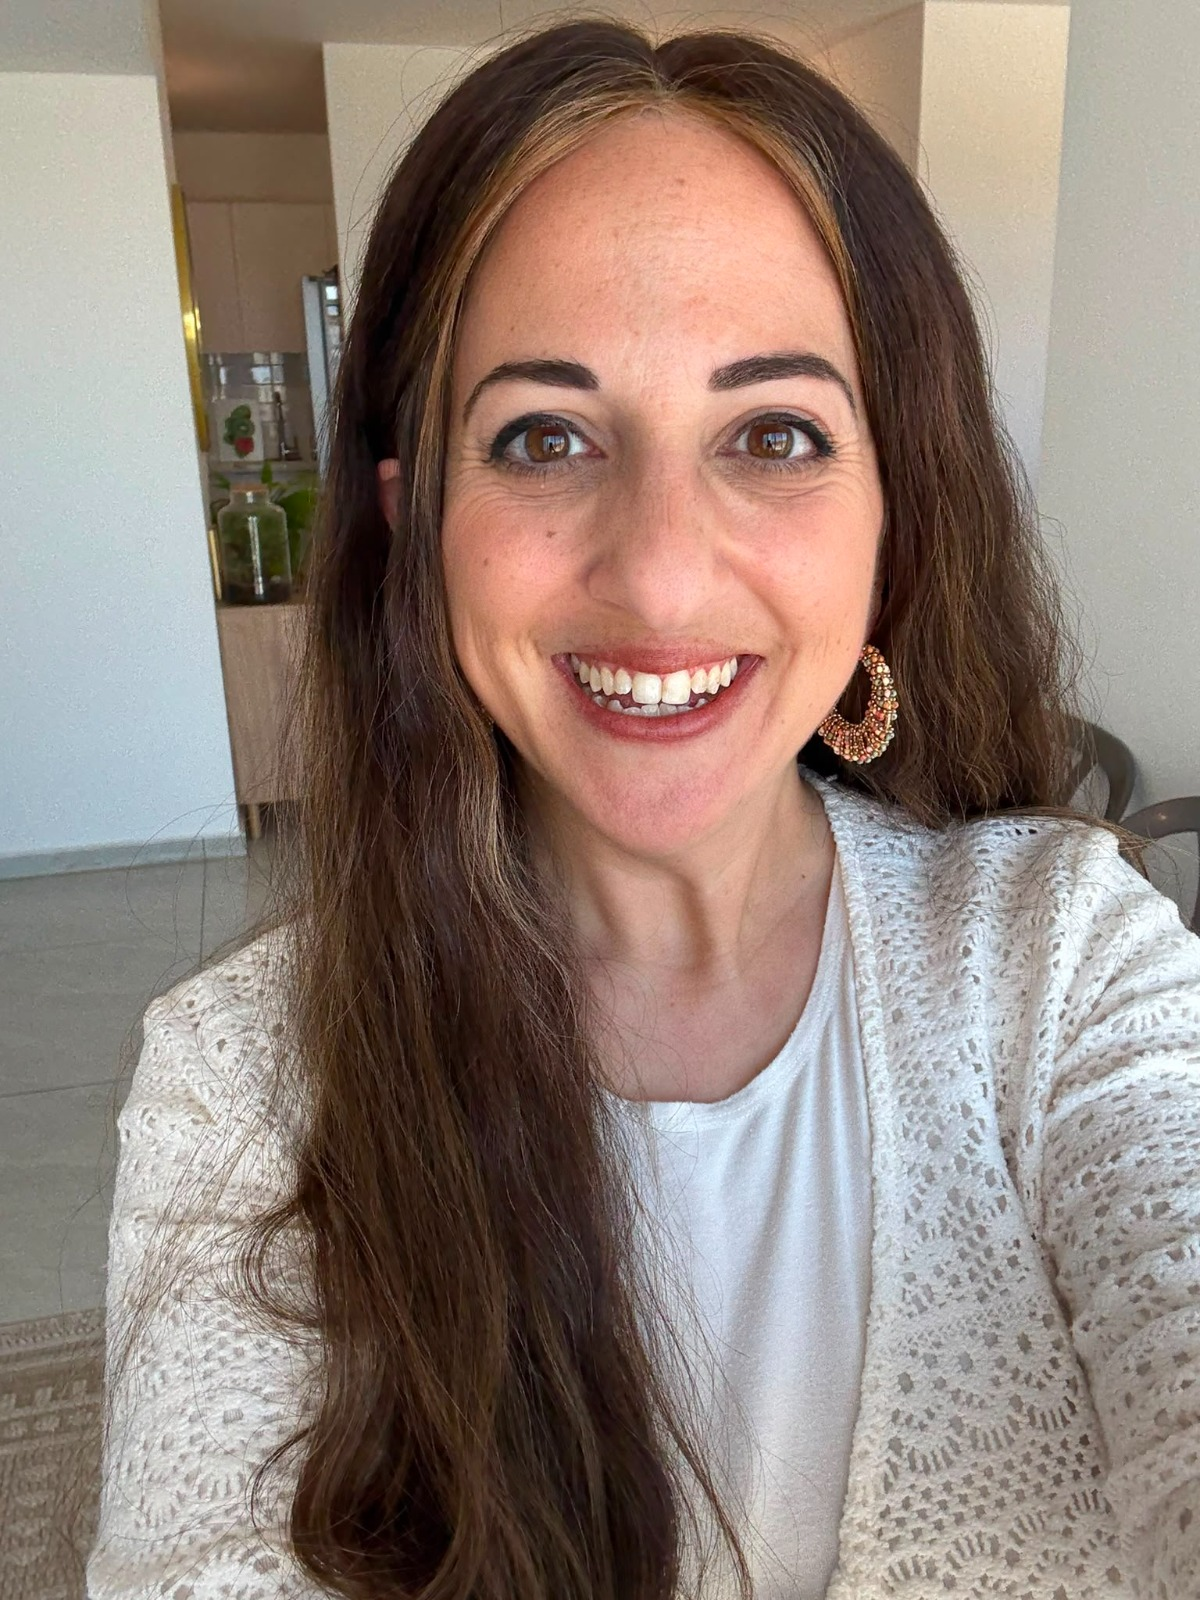
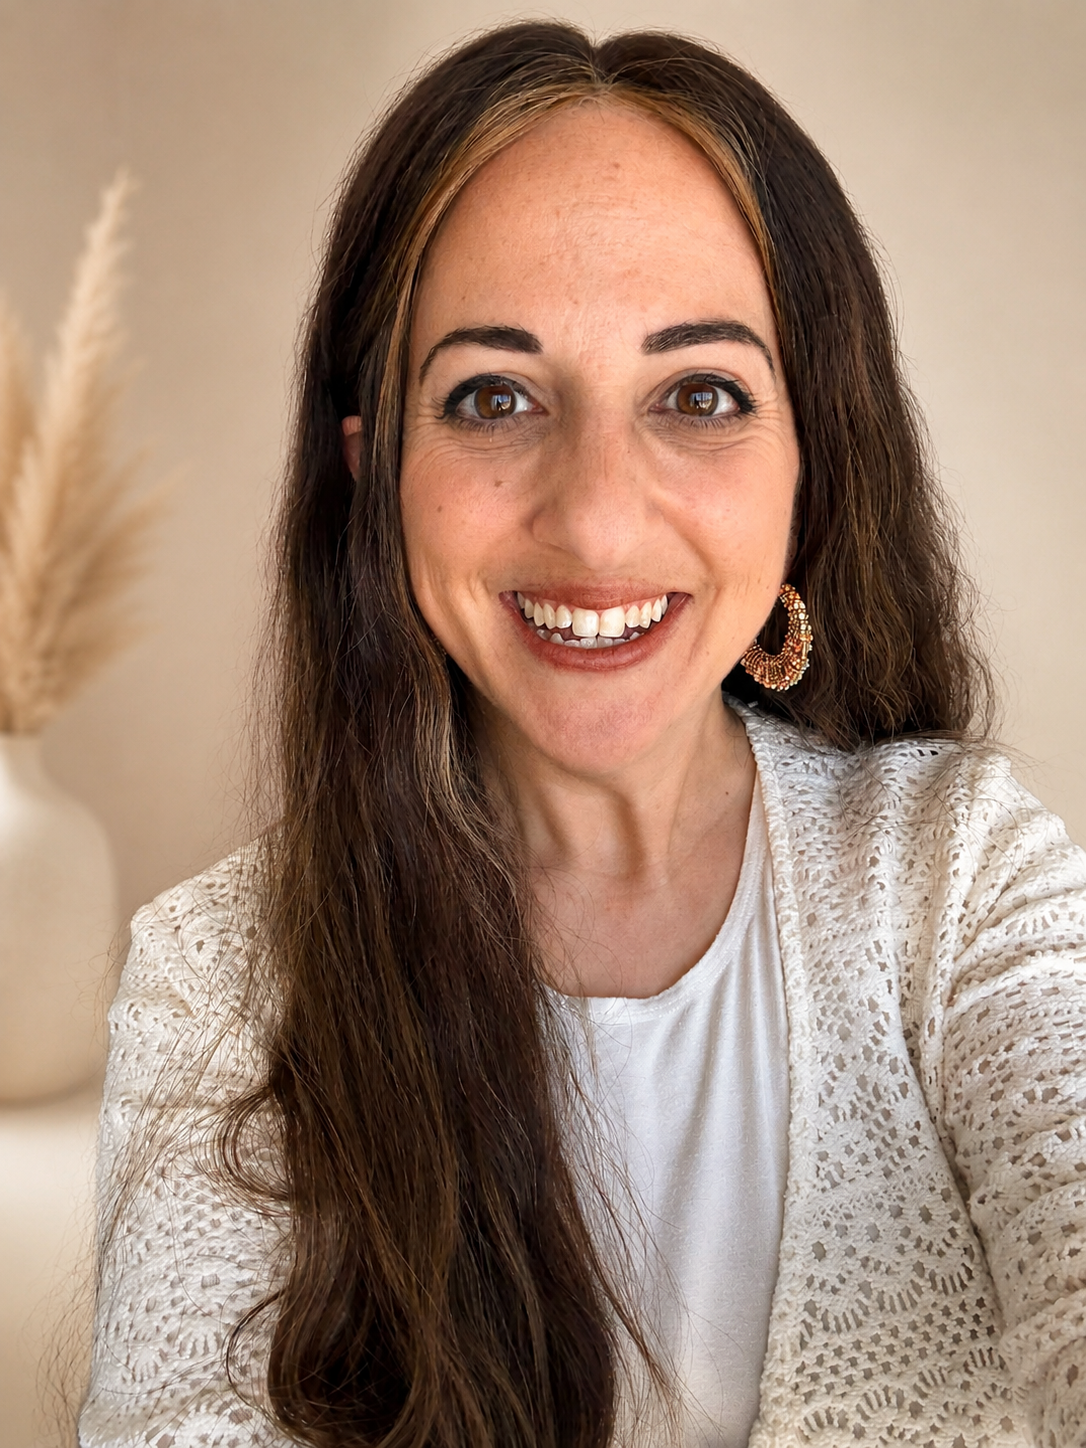
Apply Sarah's feedback round: new photo/infographic, WhatsApp links, copy updates, intro video, testimonial fixes, new 'what happens' section

diff --git a/index.html b/index.html
@@ -134,11 +134,12 @@ p{margin:0 0 14px;}
 .hero-photo-frame img{width:100%;height:100%;object-fit:cover;}
 .quote-float{
   position:relative;margin-top:-56px;margin-inline:16px 0;z-index:3;
-  background:#fff;border-radius:var(--radius);padding:22px 24px;box-shadow:var(--shadow-md);
-  max-width:320px;border:1px solid var(--line);
+  background:#fff;border-radius:var(--radius);padding:18px 20px 16px;box-shadow:var(--shadow-md);
+  max-width:270px;border:1px solid var(--line);
 }
-.quote-float p{font-size:15.5px;color:var(--ink-soft);margin:0 0 10px;font-style:normal;}
-.quote-float footer{font-family:'Heebo',sans-serif;font-weight:700;font-size:13px;color:var(--coral-deep);}
+.quote-float .quote-mark{font-family:Georgia,serif;font-size:44px;line-height:1;color:var(--peach);font-weight:700;margin-bottom:-6px;}
+.quote-float p{font-size:14.5px;color:var(--ink-soft);margin:0 0 8px;font-style:normal;}
+.quote-float footer{font-family:'Heebo',sans-serif;font-weight:700;font-size:12.5px;color:var(--coral-deep);}
 @media (max-width:900px){.hero-photo-frame{margin-inline:auto;}.quote-float{margin-inline:auto;}}
 
 /* PAIN chips */
@@ -247,6 +248,8 @@ p{margin:0 0 14px;}
 .struct-block .ico{flex:none;width:44px;height:44px;border-radius:14px;background:var(--teal-tint);color:var(--teal);display:flex;align-items:center;justify-content:center;}
 .struct-block h4{font-family:'Heebo',sans-serif;font-weight:800;font-size:16.5px;margin:0 0 6px;}
 .struct-block p{margin:0;font-size:15.5px;color:var(--ink-soft);}
+.struct-block.featured{background:var(--coral-tint);border-color:rgba(230,62,112,.25);border-inline-start:4px solid var(--coral);box-shadow:var(--shadow-md);}
+.struct-block.featured .ico{background:#fff;color:var(--coral-deep);}
 
 /* support features */
 .support-grid{display:grid;grid-template-columns:repeat(3,1fr);gap:18px;margin-top:30px;}
@@ -261,9 +264,13 @@ p{margin:0 0 14px;}
 .scroll-row{display:flex;gap:18px;overflow-x:auto;scroll-snap-type:x mandatory;padding:6px 4px 18px;scroll-behavior:smooth;}
 .scroll-row::-webkit-scrollbar{height:6px;}
 .scroll-row::-webkit-scrollbar-thumb{background:var(--line);border-radius:10px;}
-.video-frame{position:relative;border-radius:var(--radius);overflow:hidden;box-shadow:var(--shadow-sm);border:1px solid var(--line);background:#000;padding-top:56.25%;flex:0 0 300px;scroll-snap-align:start;}
+.video-frame{position:relative;border-radius:var(--radius);overflow:hidden;box-shadow:var(--shadow-sm);border:1px solid var(--line);background:#000;padding-top:56.25%;}
 .video-frame iframe{position:absolute;inset:0;width:100%;height:100%;border:0;}
-@media (max-width:560px){.video-frame{flex:0 0 82vw;}}
+.scroll-row > .video-frame{flex:0 0 300px;scroll-snap-align:start;}
+.video-testi{flex:0 0 300px;scroll-snap-align:start;}
+.video-testi-name{margin:10px 0 0;text-align:center;font-size:13.5px;color:var(--ink-soft);}
+.video-testi-name b{color:var(--coral-deep);}
+@media (max-width:560px){.scroll-row > .video-frame,.video-testi{flex:0 0 82vw;}}
 /* vertical testimonial marquee columns */
 .testi-columns{display:flex;justify-content:center;gap:20px;margin-top:16px;max-height:640px;overflow:hidden;-webkit-mask-image:linear-gradient(to bottom,transparent,#000 12%,#000 88%,transparent);mask-image:linear-gradient(to bottom,transparent,#000 12%,#000 88%,transparent);}
 .testi-col{flex:1 1 0;max-width:230px;overflow:hidden;}
@@ -272,14 +279,10 @@ p{margin:0 0 14px;}
 @media (min-width:900px){.testi-col:nth-child(3){display:block;}}
 .testi-track{display:flex;flex-direction:column;gap:16px;animation:testiScroll linear infinite;}
 .testi-col:hover .testi-track{animation-play-state:paused;}
-.testi-card{border-radius:16px;overflow:hidden;box-shadow:var(--shadow-sm);border:1px solid var(--line);aspect-ratio:1/1;flex:none;}
-.testi-card img{width:100%;height:100%;object-fit:cover;display:block;}
+.testi-card{border-radius:16px;overflow:hidden;box-shadow:var(--shadow-sm);border:1px solid var(--line);aspect-ratio:3/4;flex:none;background:#fff;}
+.testi-card img{width:100%;height:100%;object-fit:contain;display:block;}
 @keyframes testiScroll{from{transform:translateY(0);}to{transform:translateY(-50%);}}
 @media (prefers-reduced-motion:reduce){.testi-track{animation:none;}}
-
-.name-pills{display:flex;flex-wrap:wrap;gap:8px;margin-top:22px;}
-.name-pill{background:#fff;border:1px solid var(--line);border-radius:100px;padding:7px 16px;font-size:13.5px;box-shadow:var(--shadow-sm);}
-.name-pill b{color:var(--coral-deep);}
 
 /* bio */
 .bio-wrap{display:grid;grid-template-columns:.75fr 1.25fr;gap:clamp(24px,5vw,50px);align-items:start;margin-top:20px;}
@@ -324,7 +327,7 @@ footer .fine{font-size:13px;color:var(--ink-soft);margin-top:24px;}
 <nav class="nav">
   <div class="nav-inner">
     <a class="nav-logo" href="#top"><img src="assets/logo.png" alt="שרה שרבאני - מאמנת עסקית-רוחנית"></a>
-    <a class="btn btn-wa nav-cta" href="https://api.whatsapp.com/send?phone=+9720534301836&text=%D7%94%D7%99%D7%99%21%20%D7%90%D7%A0%D7%99%20%D7%A8%D7%95%D7%A6%D7%94%20%D7%A2%D7%95%D7%93%20%D7%A4%D7%A8%D7%98%D7%99%D7%9D%20%D7%A2%D7%9C%20%D7%AA%D7%9B%D7%A0%D7%99%D7%AA%20%D7%94%D7%9C%D7%99%D7%95%D7%95%D7%99%20Inside%20Out%20Business&lang=he" target="_blank" rel="noopener">
+    <a class="btn btn-wa nav-cta" href="https://wa.me/message/7DOKCXRTBY4UG1" target="_blank" rel="noopener">
       <svg width="18" height="18" viewBox="0 0 24 24" fill="currentColor"><path d="M12.04 2C6.58 2 2.13 6.45 2.13 11.91c0 1.7.44 3.35 1.29 4.81L2 22l5.44-1.36a9.9 9.9 0 0 0 4.6 1.17h.01c5.46 0 9.9-4.45 9.9-9.91C21.95 6.45 17.5 2 12.04 2Z" opacity=".15"/><path d="M17.47 14.38c-.28-.14-1.65-.81-1.9-.9-.26-.1-.44-.14-.63.14-.19.28-.72.9-.89 1.08-.16.19-.33.21-.61.07-.28-.14-1.18-.44-2.24-1.39-.83-.74-1.39-1.66-1.55-1.94-.16-.28-.02-.43.12-.57.13-.13.28-.33.42-.5.14-.16.19-.28.28-.47.09-.19.05-.35-.02-.5-.07-.14-.63-1.53-.87-2.09-.23-.55-.46-.48-.63-.48-.16-.01-.35-.01-.54-.01-.19 0-.5.07-.76.35-.26.28-1 1-1 2.42 0 1.43 1.03 2.82 1.18 3.01.14.19 2.03 3.1 4.92 4.35.69.3 1.22.48 1.64.61.69.22 1.31.19 1.81.11.55-.08 1.65-.67 1.89-1.33.23-.65.23-1.2.16-1.33-.07-.12-.26-.19-.54-.33Z"/></svg>
       <span class="long">כתבי לי בוואטסאפ</span>
     </a>
@@ -336,9 +339,9 @@ footer .fine{font-size:13px;color:var(--ink-soft);margin-top:24px;}
   <div class="hero-blob" aria-hidden="true"></div>
   <div class="hero-grid container">
     <div>
-      <span class="eyebrow">הכשרה חדשה · מחזור 1</span>
+      <span class="eyebrow">הכשרת מטפלות עסקיות · מחזור 1</span>
       <h1 class="h1"><span class="wave-text" id="hero-wave">נמאס לך לעבוד קשה<br><em>בשביל כלום כסף לשעה?</em></span></h1>
-      <p class="lead">הכשרת מטפלות עסקיות בשיטת Inside Out - השיטה שמחברת עבודה רגשית-תודעתית עמוקה לליווי עסקי מעשי, כדי שתדעי לא רק ללוות נשים לשינוי אמיתי - אלא גם לחיות ממנו בכבוד.</p>
+      <p class="lead">הכשרת מטפלות עסקיות בשיטת Inside Out - השיטה שמחברת עבודה רגשית-תודעתית עמוקה עם ליווי עסקי מעשי, כדי שתדעי לא רק ללוות נשים לשינוי אמיתי - אלא גם לחיות מהמקצוע בכבוד.</p>
       <div class="stat-bar">
         <div class="stat">
           <span class="ico"><svg width="18" height="18" viewBox="0 0 24 24" fill="none"><path d="M12 21s7-6.1 7-11.5A7 7 0 0 0 5 9.5C5 14.9 12 21 12 21Z" stroke="currentColor" stroke-width="1.8" stroke-linejoin="round"/><circle cx="12" cy="9.5" r="2.4" stroke="currentColor" stroke-width="1.8"/></svg></span>
@@ -354,7 +357,7 @@ footer .fine{font-size:13px;color:var(--ink-soft);margin-top:24px;}
         </div>
       </div>
       <div class="hero-actions">
-        <a class="btn btn-wa" href="https://api.whatsapp.com/send?phone=+9720534301836&text=%D7%94%D7%99%D7%99%21%20%D7%90%D7%A0%D7%99%20%D7%A8%D7%95%D7%A6%D7%94%20%D7%A2%D7%95%D7%93%20%D7%A4%D7%A8%D7%98%D7%99%D7%9D%20%D7%A2%D7%9C%20%D7%AA%D7%9B%D7%A0%D7%99%D7%AA%20%D7%94%D7%9C%D7%99%D7%95%D7%95%D7%99%20Inside%20Out%20Business&lang=he" target="_blank" rel="noopener">
+        <a class="btn btn-wa" href="https://wa.me/message/7DOKCXRTBY4UG1" target="_blank" rel="noopener">
           <svg width="18" height="18" viewBox="0 0 24 24" fill="currentColor"><path d="M17.47 14.38c-.28-.14-1.65-.81-1.9-.9-.26-.1-.44-.14-.63.14-.19.28-.72.9-.89 1.08-.16.19-.33.21-.61.07-.28-.14-1.18-.44-2.24-1.39-.83-.74-1.39-1.66-1.55-1.94-.16-.28-.02-.43.12-.57.13-.13.28-.33.42-.5.14-.16.19-.28.28-.47.09-.19.05-.35-.02-.5-.07-.14-.63-1.53-.87-2.09-.23-.55-.46-.48-.63-.48-.16-.01-.35-.01-.54-.01-.19 0-.5.07-.76.35-.26.28-1 1-1 2.42 0 1.43 1.03 2.82 1.18 3.01.14.19 2.03 3.1 4.92 4.35.69.3 1.22.48 1.64.61.69.22 1.31.19 1.81.11.55-.08 1.65-.67 1.89-1.33.23-.65.23-1.2.16-1.33-.07-.12-.26-.19-.54-.33ZM12.04 2C6.58 2 2.13 6.45 2.13 11.91c0 1.7.44 3.35 1.29 4.81L2 22l5.44-1.36a9.9 9.9 0 0 0 4.6 1.17h.01c5.46 0 9.9-4.45 9.9-9.91C21.95 6.45 17.5 2 12.04 2Z"/></svg>
           להרשמה להכשרה
         </a>
@@ -364,12 +367,23 @@ footer .fine{font-size:13px;color:var(--ink-soft);margin-top:24px;}
     <div class="hero-visual">
       <div class="hero-photo-frame"><img src="assets/sarah-hero.jpg" alt="שרה שרבאני - מאמנת עסקית-רוחנית"></div>
       <div class="quote-float">
-        <p>"במשך שנים ליוויתי מאות בעלות עסקים, ולמדתי אמת אחת שלא מתפשרת: אי אפשר ללמד אישה לשווק, למכור או לגדול לפני שמבינים מה באמת עוצר אותה מבפנים."</p>
+        <div class="quote-mark">"</div>
+        <p>במשך שנים ליוויתי מאות בעלות עסקים, ולמדתי אמת אחת שלא מתפשרת: אי אפשר ללמד אישה לשווק, למכור או לגדול לפני שמבינים מה באמת עוצר אותה מבפנים.</p>
         <footer>שרה שרבאני, מייסדת שיטת Inside Out</footer>
       </div>
     </div>
   </div>
 </header>
+
+<!-- INTRO VIDEO -->
+<section class="reveal" style="padding-top:0;">
+  <div class="container-narrow">
+    <p style="text-align:center;font-family:'Heebo',sans-serif;font-weight:700;font-size:16.5px;margin-bottom:16px;">רגע לפני שממשיכות, סרטון קצר על ההכשרה:</p>
+    <div class="video-frame" style="max-width:560px;margin:0 auto;">
+      <iframe src="https://player.vimeo.com/video/1184530587" allow="autoplay; fullscreen; picture-in-picture" allowfullscreen loading="lazy"></iframe>
+    </div>
+  </div>
+</section>
 
 <!-- PAIN -->
 <section class="reveal">
@@ -377,12 +391,12 @@ footer .fine{font-size:13px;color:var(--ink-soft);margin-top:24px;}
     <div class="section-head">
       <span class="eyebrow">בואי נדבר רגע על מה שבאמת קורה</span>
       <h2 class="h2">אם הגעת לכאן, זה כנראה לא במקרה</h2>
-      <p class="lead">משהו בפנים כבר אומר לך שהגיע הזמן לקפיצת דרך - ואת כנראה מזהה את עצמך באחד משני התיאורים הבאים:</p>
+      <p class="lead">עמוק בפנים את מרגישה שהגיע הזמן לקפיצת דרך - ואת כנראה מזהה את עצמך באחד משני התיאורים הבאים:</p>
     </div>
     <div class="pain-audience">
       <div class="pain-card">
-        <span class="tag">מעולם הטיפול, האימון והתודעה</span>
-        <p>את עושה עבודה רגשית מדהימה עם אנשים, אבל הלב שלך קורא לך לעבוד עם נשים עצמאיות ובעלות עסקים. חסרה לך השפה העסקית המדויקת, המודלים והכלים הפרקטיים כדי לתרגם את העומק שלך לתוצאות עסקיות אמיתיות.</p>
+        <span class="tag">את מעולם הטיפול, האימון והתודעה</span>
+        <p>את עושה עבודה רגשית מדהימה עם אנשים, אבל הלב שלך קורא לך לעבוד עם נשים עצמאיות ובעלות עסקים. את רוצה ללוות נשים להגשמה, להפצת השליחות שלהן ולהגדלת ההכנסות. חסרה לך השפה העסקית המדויקת, המודלים והכלים הפרקטיים כדי לתרגם את העומק שלך לתוצאות עסקיות אמיתיות.</p>
       </div>
       <div class="pain-card">
         <span class="tag">מעולם הליווי והייעוץ העסקי</span>
@@ -436,7 +450,7 @@ footer .fine{font-size:13px;color:var(--ink-soft);margin-top:24px;}
       <span>הבעיה הייתה עמוקה יותר - פחד להצליח, פחד להיכשל, חוסר ערך, ביקורת עצמית, טראומות, אמונות מגבילות, מערכת עצבים בהישרדות.</span>
     </div>
     <p style="font-weight:700;">וכשזה השתנה - גם העסק השתנה.</p>
-    <p>העולם לא צריך עוד יועצות עסקיות. הוא צריך נשות מקצוע שיודעות לראות את מה שמאחורי הקלעים:</p>
+    <p style="font-family:'Heebo',sans-serif;font-weight:800;font-size:clamp(18px,2.4vw,22px);color:var(--coral-deep);line-height:1.45;">העולם לא צריך עוד יועצות עסקיות. הוא צריך נשות מקצוע שיודעות לראות את מה שמאחורי הקלעים:</p>
     <ul class="point-list">
       <li><span class="num">1</span>לזהות את השורש שמאחורי החסם העסקי.</li>
       <li><span class="num">2</span>להבין למה אישה יודעת בדיוק מה לעשות, אבל לא מצליחה לעשות את זה.</li>
@@ -493,7 +507,7 @@ footer .fine{font-size:13px;color:var(--ink-soft);margin-top:24px;}
         <span class="compare-yes">אנחנו מרפאות את מה שמנהל אותו</span>
       </div>
     </div>
-    <p style="text-align:center;margin-top:24px;color:var(--ink-soft);">רק אחר כך יוצאות החוצה לעולם.</p>
+    <p style="text-align:center;margin-top:24px;font-family:'Heebo',sans-serif;font-weight:800;font-size:clamp(18px,2.4vw,22px);color:var(--coral-deep);">רק אחר כך יוצאות החוצה לעולם.</p>
   </div>
 </section>
 
@@ -539,7 +553,7 @@ footer .fine{font-size:13px;color:var(--ink-soft);margin-top:24px;}
     <div class="section-head">
       <span class="eyebrow teal">סמכות מקצועית</span>
       <h2 class="h2">שיטת הלמידה בהכשרה</h2>
-      <p class="lead">חסם עסקי הוא כמעט תמיד אנרגיה תקועה - פחד, אמונה מגבילה, סיפור ישן שעדיין מנהל אותך מבפנים. אי אפשר לפרק אותו רק עם עוד תבנית שיווקית. לכן כל מפגש בנוי משני חלקים המשלימים זה את זה, כי לא ניתן להוביל אחרות למקום שעדיין לא עברנו בעצמנו.</p>
+      <p class="lead">חסם עסקי הוא כמעט תמיד אנרגיה תקועה - פחד, אמונה מגבילה, סיפור ישן שעדיין מנהל אותך מבפנים. אי אפשר לפרק אותו רק עם עוד תבנית שיווקית. לכן כל הקורס בנוי משני חלקים המשלימים זה את זה, כי לא ניתן להוביל אחרות למקום שעדיין לא עברנו בעצמנו.</p>
     </div>
     <div class="io-grid">
       <div class="io-card">
@@ -583,6 +597,61 @@ footer .fine{font-size:13px;color:var(--ink-soft);margin-top:24px;}
   </div>
 </section>
 
+<!-- מה יקרה לך במהלך ההכשרה -->
+<section class="reveal">
+  <div class="container-narrow">
+    <div class="section-head">
+      <span class="eyebrow">מה תקבלי</span>
+      <h2 class="h2">מה יקרה לך במהלך ההכשרה?</h2>
+      <p class="lead">כי את לא מגיעה לכאן רק כדי ללמוד מקצוע חדש</p>
+    </div>
+    <p>במהלך שבעת החודשים האלה יקרו שלושה תהליכים במקביל: את תעברי בעצמך את הדרך. את תלמדי להוביל נשים אחרות בדרך הזו. ואת תבני ותצמיחי את העסק שלך תוך כדי.</p>
+
+    <div class="struct-block" style="margin-top:28px;">
+      <span class="ico" style="font-size:22px;">🧩</span>
+      <div><h4>היכולת לראות את מה שנמצא מתחת לבעיה העסקית</h4><p>תלמדי להסתכל מעבר למה שהלקוחה מספרת לך שהיא "לא מצליחה לעשות", ולזהות מה באמת מנהל אותה. פחד, אמונה, טראומה, דפוס, מערכת עצבים שנמצאת בהישרדות, או אולי בכלל בעיה עסקית שדורשת פתרון פרקטי. תלמדי לראות את האישה ואת העסק שלה כתמונה אחת שלמה.</p></div>
+    </div>
+    <div class="struct-block">
+      <span class="ico" style="font-size:22px;">🧠</span>
+      <div><h4>הבנה עמוקה של הקשר בין העולם הפנימי לעולם העסקי</h4><p>תלמדי להבין כיצד זהות, עבר, אמונות, מערכת העצבים, מערכות יחסים, כסף וערך עצמי מתבטאים בתוך העסק. במקום להפריד בין "הבעיה הרגשית" ל"בעיה העסקית", תלמדי לעבוד עם שתיהן ולנוע באופן מקצועי בין ה-Inside ל-Out.</p></div>
+    </div>
+    <div class="struct-block">
+      <span class="ico" style="font-size:22px;">🌱</span>
+      <div><h4>תהליך אישי עמוק שאת עוברת בעצמך</h4><p>לאורך ההכשרה לא רק תלמדי את השיטה, אלא תחווי אותה על עצמך. תכירי את עצמך לעומק, תפגשי את הדפוסים והחסמים שמנהלים אותך, תעבדי על הנראות, הכסף, הביטחון והיכולת שלך לתפוס מקום, ותעברי בעצמך את הדרך שאת עתידה להוביל בה נשים אחרות.</p></div>
+    </div>
+    <div class="struct-block">
+      <span class="ico" style="font-size:22px;">🧰</span>
+      <div><h4>ארגז כלים טיפולי ומקצועי</h4><p>תרכשי כלים מעולמות התודעה, העבודה עם הגוף ומערכת העצבים, דמיון מודרך, מדיטציה, ויסות רגשי, אבחון והובלת תהליכים. תלמדי לא רק להכיר כלים, אלא להבין מתי להשתמש בהם, עם מי, למה ואיך לשלב אותם בתוך תהליך שלם.</p></div>
+    </div>
+    <div class="struct-block">
+      <span class="ico" style="font-size:22px;">🔍</span>
+      <div><h4>מתודולוגיה ברורה להובלת תהליך Inside Out</h4><p>לא תישארי עם אוסף של כלים וטכניקות. תלמדי כיצד לאבחן, לזהות את השורש, לבנות מפת ליווי ולהוביל תהליך שמחבר בין עבודה פנימית לבין תנועה עסקית מעשית. תדעי איך להתחיל תהליך, איך להתקדם בתוכו ואיך להתאים אותו לאישה שמולך.</p></div>
+    </div>
+    <div class="struct-block">
+      <span class="ico" style="font-size:22px;">💼</span>
+      <div><h4>היכולת להבין עסק וללוות אותו מקצועית</h4><p>תלמדי לעבוד גם עם הצד העסקי: מודל עסקי, תוכנית עסקית ושיווקית, מוצרים, תמחור, כסף, קהילה, תוכן, מכירות ונראות. כך תוכלי לעזור ללקוחה לא רק להבין מה עוצר אותה, אלא גם לבנות את הדרך המעשית שתאפשר לעסק שלה להתקדם.</p></div>
+    </div>
+    <div class="struct-block">
+      <span class="ico" style="font-size:22px;">🚀</span>
+      <div><h4>עסק משלך שצומח יחד איתך במהלך ההכשרה</h4><p>כל מה שתלמדי לא יישאר בתיאוריה. לאורך ההכשרה תיישמי את הכלים העסקיים על העסק שלך, תדייקי את הבידול והמסרים שלך, תבני מוצרים, תעבדי על השיווק והנראות ותשתמשי גם בכלי AI וטכנולוגיה כדי להפוך רעיונות למציאות.</p></div>
+    </div>
+    <div class="struct-block">
+      <span class="ico" style="font-size:22px;">🪞</span>
+      <div><h4>ניסיון מעשי וביטחון לעבוד עם נשים אמיתיות</h4><p>באמצעות תרגולים, עבודה בזוגות, סימולציות, סטאז' פרטני, סופרוויז'ן וקליניקת סטאז' חיה, תצברי ניסיון אמיתי. לא תסיימי את ההכשרה ותשאלי את עצמך "אבל איך מתחילים?". כבר במהלך הדרך תתנסי, תקבלי משוב ותבני בהדרגה את הביטחון המקצועי שלך.</p></div>
+    </div>
+    <div class="struct-block">
+      <span class="ico" style="font-size:22px;">🤝</span>
+      <div><h4>בית מקצועי וקבוצה שעוברת איתך את הדרך</h4><p>תהיי חלק מקבוצה של נשים שלא רק לומדות יחד, אלא עוברות יחד תהליך אישי ומקצועי. יהיה לך מקום לשאול, להתייעץ, להביא מקרים מהשטח, לקבל משוב ולהרגיש שאת לא צריכה להבין הכול לבד.</p></div>
+    </div>
+
+    <div class="callout" style="margin-top:32px;">
+      <h3>🎓 ומעל הכל - מקצוע חדש שמחבר את כל העולמות שלך</h3>
+      <p>בסיום ההכשרה, ובכפוף להשלמת הסטאז' ועמידה בדרישות ההסמכה, תוכלי לצאת כמטפלת עסקית בשיטת Inside Out. עם היכולת לראות את האישה שמאחורי העסק. להבין מה באמת עוצר אותה. לעבוד איתה מבפנים. ולעזור לה להפוך את השינוי הפנימי לתנועה ממשית בעולם.</p>
+      <p style="margin-top:10px;font-weight:700;">לא רק לטפל. לא רק לייעץ.<br>להוביל נשים לשינוי אמיתי, מבפנים החוצה.</p>
+    </div>
+  </div>
+</section>
+
 <!-- למי מתאים -->
 <section class="reveal">
   <div class="container-narrow">
@@ -619,7 +688,7 @@ footer .fine{font-size:13px;color:var(--ink-soft);margin-top:24px;}
     </div>
     <div class="price-band">
       <div class="amount"><span>ההשקעה שלך</span>18,400 ₪</div>
-      <a class="btn btn-wa" href="https://api.whatsapp.com/send?phone=+9720534301836&text=%D7%94%D7%99%D7%99%21%20%D7%90%D7%A0%D7%99%20%D7%A8%D7%95%D7%A6%D7%94%20%D7%9C%D7%AA%D7%90%D7%9D%20%D7%A8%D7%90%D7%99%D7%95%D7%9F%20%D7%A7%D7%91%D7%9C%D7%94%20%D7%9C%D7%94%D7%9B%D7%A9%D7%A8%D7%94&lang=he" target="_blank" rel="noopener">לתיאום ראיון קבלה</a>
+      <a class="btn btn-wa" href="https://wa.me/message/7DOKCXRTBY4UG1" target="_blank" rel="noopener">לתיאום ראיון קבלה</a>
     </div>
     <p style="text-align:center;margin-top:22px;font-size:15px;color:var(--ink-soft);">דרישות ההסמכה: הנחיית סדנת זום בכנס בוגרות ההכשרה, הנחיית מעגל נשים בריטריט, וליווי 3-4 מתאמנות בתשלום סמלי לצבירת ניסיון.</p>
   </div>
@@ -663,11 +732,11 @@ footer .fine{font-size:13px;color:var(--ink-soft);margin-top:24px;}
     </div>
     <div class="struct-block">
       <span class="ico"><svg width="20" height="20" viewBox="0 0 24 24" fill="none"><rect x="3" y="4" width="18" height="17" rx="2" stroke="currentColor" stroke-width="1.8"/><path d="M3 9h18M8 2v4M16 2v4" stroke="currentColor" stroke-width="1.8" stroke-linecap="round"/></svg></span>
-      <div><h4>שיעורים פרונטליים</h4><p>השיעורים יתקיימו בבית שמש בהתאם ללו"ז המצורף, בימי ראשון בוקר בין השעות 9:30-13:30.</p></div>
+      <div><h4>שיעורים פרונטליים</h4><p>השיעורים יתקיימו בבית שמש בימי ראשון בוקר, בהתאם ללו"ז שיתפרסם בהמשך.</p></div>
     </div>
-    <div class="struct-block">
+    <div class="struct-block featured">
       <span class="ico"><svg width="20" height="20" viewBox="0 0 24 24" fill="none"><path d="M15 8a3 3 0 1 1-6 0 3 3 0 0 1 6 0Z" stroke="currentColor" stroke-width="1.8"/><path d="M4 20c0-3.9 3.6-7 8-7s8 3.1 8 7" stroke="currentColor" stroke-width="1.8" stroke-linecap="round"/></svg></span>
-      <div><h4>בונוס: 2 פגישות פרטניות איתי בזום</h4><p>חשוב לי שתטמיעי את התהליך ואבין את סיפור חייך, כדי להתאים לך את התכנית בדיוק לצרכים שלך - פגישה בתחילת התהליך ואחת לקראת סיום.</p></div>
+      <div><h4>בונוס: 2 פגישות פרטניות איתי בזום</h4><p>כדי להתאים לך את ההכשרה בדיוק לצרכים שלך, תקבלי שתי פגישות אישיות איתי בזום - אחת בתחילת התהליך ואחת לקראת סיום, שבהן אכיר את סיפור חייך לעומק ואתאים לך את התכנית בהתאם.</p></div>
     </div>
     <div class="struct-block">
       <span class="ico"><svg width="20" height="20" viewBox="0 0 24 24" fill="none"><path d="M12 4v16m8-8H4" stroke="currentColor" stroke-width="1.8" stroke-linecap="round"/></svg></span>
@@ -706,17 +775,17 @@ footer .fine{font-size:13px;color:var(--ink-soft);margin-top:24px;}
       <h2 class="h2">משתתפות תוכניות וקורסים קודמים משתפות</h2>
     </div>
     <div class="scroll-row">
-      <div class="video-frame"><iframe src="https://player.vimeo.com/video/1149309419" allow="autoplay; fullscreen; picture-in-picture" allowfullscreen loading="lazy"></iframe></div>
-      <div class="video-frame"><iframe src="https://player.vimeo.com/video/1092072974" allow="autoplay; fullscreen; picture-in-picture" allowfullscreen loading="lazy"></iframe></div>
-      <div class="video-frame"><iframe src="https://player.vimeo.com/video/1092345558" allow="autoplay; fullscreen; picture-in-picture" allowfullscreen loading="lazy"></iframe></div>
-      <div class="video-frame"><iframe src="https://player.vimeo.com/video/1149309098" allow="autoplay; fullscreen; picture-in-picture" allowfullscreen loading="lazy"></iframe></div>
-      <div class="video-frame"><iframe src="https://player.vimeo.com/video/1092346897" allow="autoplay; fullscreen; picture-in-picture" allowfullscreen loading="lazy"></iframe></div>
-      <div class="video-frame"><iframe src="https://player.vimeo.com/video/1149314008" allow="autoplay; fullscreen; picture-in-picture" allowfullscreen loading="lazy"></iframe></div>
-      <div class="video-frame"><iframe src="https://player.vimeo.com/video/1149313757" allow="autoplay; fullscreen; picture-in-picture" allowfullscreen loading="lazy"></iframe></div>
-      <div class="video-frame"><iframe src="https://player.vimeo.com/video/1208674882" allow="autoplay; fullscreen; picture-in-picture" allowfullscreen loading="lazy"></iframe></div>
-      <div class="video-frame"><iframe src="https://player.vimeo.com/video/1208675105" allow="autoplay; fullscreen; picture-in-picture" allowfullscreen loading="lazy"></iframe></div>
-      <div class="video-frame"><iframe src="https://player.vimeo.com/video/1208675961" allow="autoplay; fullscreen; picture-in-picture" allowfullscreen loading="lazy"></iframe></div>
-      <div class="video-frame"><iframe src="https://player.vimeo.com/video/1208675321" allow="autoplay; fullscreen; picture-in-picture" allowfullscreen loading="lazy"></iframe></div>
+      <div class="video-testi"><div class="video-frame"><iframe src="https://player.vimeo.com/video/1149309419" allow="autoplay; fullscreen; picture-in-picture" allowfullscreen loading="lazy"></iframe></div><p class="video-testi-name"><b>נחמי</b> · מטפלת ברפואה סינית</p></div>
+      <div class="video-testi"><div class="video-frame"><iframe src="https://player.vimeo.com/video/1092072974" allow="autoplay; fullscreen; picture-in-picture" allowfullscreen loading="lazy"></iframe></div><p class="video-testi-name"><b>שרון</b> · מאסטר NLP ויועצת פיננסית</p></div>
+      <div class="video-testi"><div class="video-frame"><iframe src="https://player.vimeo.com/video/1092345558" allow="autoplay; fullscreen; picture-in-picture" allowfullscreen loading="lazy"></iframe></div><p class="video-testi-name"><b>רייזי</b> · מנחת סדנאות היומן הויזואלי</p></div>
+      <div class="video-testi"><div class="video-frame"><iframe src="https://player.vimeo.com/video/1149309098" allow="autoplay; fullscreen; picture-in-picture" allowfullscreen loading="lazy"></iframe></div><p class="video-testi-name"><b>נועה</b> · מלווה נשים בתהליכי ריפוי</p></div>
+      <div class="video-testi"><div class="video-frame"><iframe src="https://player.vimeo.com/video/1092346897" allow="autoplay; fullscreen; picture-in-picture" allowfullscreen loading="lazy"></iframe></div><p class="video-testi-name"><b>שיר</b> · מטפלת רגשית</p></div>
+      <div class="video-testi"><div class="video-frame"><iframe src="https://player.vimeo.com/video/1149314008" allow="autoplay; fullscreen; picture-in-picture" allowfullscreen loading="lazy"></iframe></div><p class="video-testi-name"><b>רחל</b> · מטפלת NLP</p></div>
+      <div class="video-testi"><div class="video-frame"><iframe src="https://player.vimeo.com/video/1149313757" allow="autoplay; fullscreen; picture-in-picture" allowfullscreen loading="lazy"></iframe></div><p class="video-testi-name"><b>חנה</b> · קלינאית תקשורת</p></div>
+      <div class="video-testi"><div class="video-frame"><iframe src="https://player.vimeo.com/video/1208674882" allow="autoplay; fullscreen; picture-in-picture" allowfullscreen loading="lazy"></iframe></div><p class="video-testi-name"><b>איילה</b> · מרצה ומנחת סדנאות</p></div>
+      <div class="video-testi"><div class="video-frame"><iframe src="https://player.vimeo.com/video/1208675105" allow="autoplay; fullscreen; picture-in-picture" allowfullscreen loading="lazy"></iframe></div><p class="video-testi-name"><b>חנה איידי</b> · מטפלת רגשית, דולה ומנחת סדנאות</p></div>
+      <div class="video-testi"><div class="video-frame"><iframe src="https://player.vimeo.com/video/1208675961" allow="autoplay; fullscreen; picture-in-picture" allowfullscreen loading="lazy"></iframe></div><p class="video-testi-name"><b>מיכל</b> · מורה לשפע ומלווה להגשמה</p></div>
+      <div class="video-testi"><div class="video-frame"><iframe src="https://player.vimeo.com/video/1208675321" allow="autoplay; fullscreen; picture-in-picture" allowfullscreen loading="lazy"></iframe></div><p class="video-testi-name"><b>פרידה</b> · מובילה נשים לזוגיות פורצת דרך</p></div>
     </div>
 
     <p style="text-align:center;color:var(--ink-soft);font-size:15px;margin-top:34px;">נשים שעברו אצלי תהליכים וקורסים שונים משתפות:</p>
@@ -764,20 +833,6 @@ footer .fine{font-size:13px;color:var(--ink-soft);margin-top:24px;}
         </div>
       </div>
     </div>
-
-    <div class="name-pills">
-      <span class="name-pill"><b>נחמי</b> · מטפלת ברפואה סינית</span>
-      <span class="name-pill"><b>שרון</b> · מאסטר NLP ויועצת פיננסית</span>
-      <span class="name-pill"><b>רייזי</b> · מנחת סדנאות היומן הויזואלי</span>
-      <span class="name-pill"><b>נועה</b> · מלווה נשים בתהליכי ריפוי</span>
-      <span class="name-pill"><b>שיר</b> · מטפלת רגשית</span>
-      <span class="name-pill"><b>רחל</b> · מטפלת NLP</span>
-      <span class="name-pill"><b>חנה</b> · קלינאית תקשורת</span>
-      <span class="name-pill"><b>איילה</b> · מרצה ומנחת סדנאות</span>
-      <span class="name-pill"><b>חנה איידי</b> · מטפלת רגשית, דולה ומנחת סדנאות</span>
-      <span class="name-pill"><b>מיכל</b> · מורה לשפע ומלווה להגשמה</span>
-      <span class="name-pill"><b>פרידה</b> · מובילה נשים לזוגיות פורצת דרך</span>
-    </div>
   </div>
 </section>
 
@@ -819,11 +874,11 @@ footer .fine{font-size:13px;color:var(--ink-soft);margin-top:24px;}
     </div>
     <details class="faq">
       <summary>האם אני חייבת להיות מטפלת או מאמנת מוסמכת כדי להתקבל?<span class="plus">+</span></summary>
-      <div class="faq-body">לא, ממש לא. ההכשרה נבנתה במיוחד כדי לתת מענה לשני הקצוות: גם לנשות מקצוע שמגיעות מעולם הייעוץ והליווי העסקי ורוצות לרכוש כלים טיפוליים-תודעתיים עמוקים, וגם למטפלות ומאמנות שרוצות ללמוד איך לתרגם את העומק שלהן לשפה עסקית פרקטית. התוכנית מתחילה מהיסודות ומעניקה מתודולוגיה שלמה מאפס.</div>
+      <div class="faq-body">רקע קודם בעולמות הטיפול, האימון או הליווי הוא יתרון משמעותי ומומלץ. יחד עם זאת, גם נשים ללא רקע פורמלי יוכלו להתקבל במקרים מסוימים, בהתאם לניסיון, לבשלות ולהתאמה שלהן להכשרה. הקבלה להכשרה מותנית בראיון אישי שבו נבדוק יחד את ההתאמה לתהליך ולעבודה כמטפלת עסקית בשיטת Inside Out.</div>
     </details>
     <details class="faq">
       <summary>העסק שלי בעצמו תקוע כרגע. ההכשרה מתאימה לי או שעדיף לטפל בו קודם?<span class="plus">+</span></summary>
-      <div class="faq-body">היא מתאימה לך בול, וזו בדיוק הסיבה שהיא תעזור לעסק שלך לצמוח. בשיטת Inside Out אי אפשר להפריד בין האישה שמנהלת את העסק לבין העסק עצמו. במיוחד בחלק הראשון של כל מפגש תעברי תהליך עומק על העסק האישי שלך - תפרקי חסמי כסף והצלחה, תדייקי תמחור ומוצרים, ותחווי קפיצת מדרגה שתשתקף מיד ברווחיות.</div>
+      <div class="faq-body">בהחלט מתאימה. לאורך כל ההכשרה תעברי בעצמך את התהליך שאת לומדת להוביל, ותעבדי על העסק שלך דרך עקרונות וכלי שיטת Inside Out. כך, תוך כדי שאת מטפלת בחסמים, מדייקת ובונה את העסק שלך מבפנים החוצה, תלמדי מתוך התנסות אמיתית כיצד להוביל גם נשים אחרות בתהליך דומה. מבחינתי, אי אפשר להוביל אחרות בדרך שלא הסכמנו לעבור בעצמנו.</div>
     </details>
     <details class="faq">
       <summary>במה ההכשרה שונה מקורסים אחרים לליווי עסקי או שיווק?<span class="plus">+</span></summary>
@@ -858,7 +913,7 @@ footer .fine{font-size:13px;color:var(--ink-soft);margin-top:24px;}
     <div class="final-cta">
       <h2 class="h2">בואי לסלול לעצמך דרך חדשה - מבפנים החוצה</h2>
       <p class="lead" style="margin-bottom:26px;">נשמח להכיר אותך. ההרשמה כרוכה בראיון קבלה קצר.</p>
-      <a class="btn btn-outline" href="https://api.whatsapp.com/send?phone=+9720534301836&text=%D7%94%D7%99%D7%99%21%20%D7%90%D7%A0%D7%99%20%D7%A8%D7%95%D7%A6%D7%94%20%D7%A2%D7%95%D7%93%20%D7%A4%D7%A8%D7%98%D7%99%D7%9D%20%D7%A2%D7%9C%20%D7%AA%D7%9B%D7%A0%D7%99%D7%AA%20%D7%94%D7%9C%D7%99%D7%95%D7%95%D7%99%20Inside%20Out%20Business&lang=he" target="_blank" rel="noopener">להרשמה ולתיאום ראיון קבלה</a>
+      <a class="btn btn-outline" href="https://wa.me/message/7DOKCXRTBY4UG1" target="_blank" rel="noopener">להרשמה ולתיאום ראיון קבלה</a>
       <p style="margin-top:26px;color:rgba(255,255,255,.85);">מחכה לך בהתרגשות,<br><strong style="color:#fff;">שרה שרבאני</strong></p>
     </div>
   </div>
@@ -876,7 +931,7 @@ footer .fine{font-size:13px;color:var(--ink-soft);margin-top:24px;}
 </footer>
 
 <div class="sticky-cta">
-  <a class="btn btn-wa" href="https://api.whatsapp.com/send?phone=+9720534301836&text=%D7%94%D7%99%D7%99%21%20%D7%90%D7%A0%D7%99%20%D7%A8%D7%95%D7%A6%D7%94%20%D7%A2%D7%95%D7%93%20%D7%A4%D7%A8%D7%98%D7%99%D7%9D%20%D7%A2%D7%9C%20%D7%AA%D7%9B%D7%A0%D7%99%D7%AA%20%D7%94%D7%9C%D7%99%D7%95%D7%95%D7%99%20Inside%20Out%20Business&lang=he" target="_blank" rel="noopener">
+  <a class="btn btn-wa" href="https://wa.me/message/7DOKCXRTBY4UG1" target="_blank" rel="noopener">
     <svg width="18" height="18" viewBox="0 0 24 24" fill="currentColor"><path d="M17.47 14.38c-.28-.14-1.65-.81-1.9-.9-.26-.1-.44-.14-.63.14-.19.28-.72.9-.89 1.08-.16.19-.33.21-.61.07-.28-.14-1.18-.44-2.24-1.39-.83-.74-1.39-1.66-1.55-1.94-.16-.28-.02-.43.12-.57.13-.13.28-.33.42-.5.14-.16.19-.28.28-.47.09-.19.05-.35-.02-.5-.07-.14-.63-1.53-.87-2.09-.23-.55-.46-.48-.63-.48-.16-.01-.35-.01-.54-.01-.19 0-.5.07-.76.35-.26.28-1 1-1 2.42 0 1.43 1.03 2.82 1.18 3.01.14.19 2.03 3.1 4.92 4.35.69.3 1.22.48 1.64.61.69.22 1.31.19 1.81.11.55-.08 1.65-.67 1.89-1.33.23-.65.23-1.2.16-1.33-.07-.12-.26-.19-.54-.33ZM12.04 2C6.58 2 2.13 6.45 2.13 11.91c0 1.7.44 3.35 1.29 4.81L2 22l5.44-1.36a9.9 9.9 0 0 0 4.6 1.17h.01c5.46 0 9.9-4.45 9.9-9.91C21.95 6.45 17.5 2 12.04 2Z"/></svg>
     לתיאום ראיון קבלה בוואטסאפ
   </a>